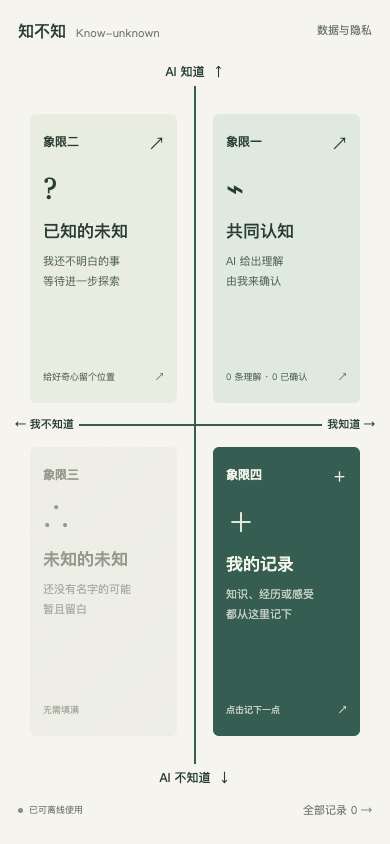
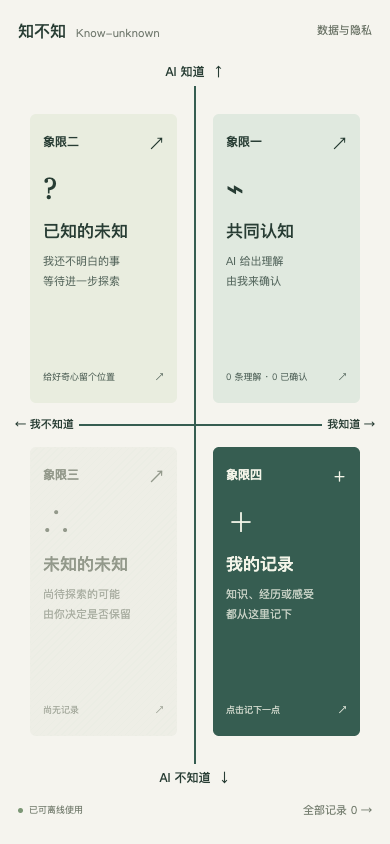
Use quadrant names consistently and open exploration view

Changed region(s): [[0.0923, 0.6161, 0.3385, 0.7393], [0.1231, 0.8318, 0.1846, 0.8626]]

diff --git a/src/App.tsx b/src/App.tsx
@@ -5,8 +5,8 @@ import { AIService, NoAIAdapter } from './ai';
 import { APP_VERSION, subscribeUpdates, getUpdateState, checkForUpdates, applyUpdate } from './pwa';
 const repository = new IndexedDBRepository();
 const ai = new AIService(repository, new NoAIAdapter());
-type Panel = 'all' | 'shared' | 'gaps' | 'settings' | 'write';
-const panelTitle: Record<Panel, string> = { all: '全部记录', shared: '共同认知', gaps: '已知的未知', settings: '数据与隐私', write: '记一笔' };
+type Panel = 'all' | 'shared' | 'gaps' | 'unexplored' | 'settings' | 'write';
+const panelTitle: Record<Panel, string> = { all: '全部记录', shared: '象限一 · 共同认知', gaps: '象限二 · 已知的未知', unexplored: '象限三 · 未知的未知', settings: '数据与隐私', write: '记一笔' };
 export default function App() {
   const title = '知不知';
   const update = useSyncExternalStore(subscribeUpdates, getUpdateState);
@@ -85,7 +85,7 @@ export default function App() {
     }, '文件处理完成。');
   }
   const records = archive?.records ?? [];
-  const groups = { all: records, shared: records.filter(r => quadrant(r) === 'shared'), gaps: records.filter(r => quadrant(r) === 'gaps') };
+  const groups = { all: records, shared: records.filter(r => quadrant(r) === 'shared'), gaps: records.filter(r => quadrant(r) === 'gaps'), unexplored: records.filter(r => r.quadrant === 'lower_left') };
   const question = archive && nextQuestion(records, archive.skippedQuestionIds);
   function recordView(record: CognitiveRecord) {
     return <article className="record" key={record.id}>
@@ -93,7 +93,7 @@ export default function App() {
       <p className="hint">{quadrantLabels[record.quadrant]} · {record.placement.source === 'user' ? '用户指定归类' : '旧记录推定，原录入入口未留存'}{record.quadrant !== record.placement.declaredQuadrant && <>（用户归类：{quadrantLabels[record.placement.declaredQuadrant]}）</>}</p><p className="original">{record.text}</p>
       {record.analysis ? <div className="analysis"><small>{'AI 的理解建议'}</small><p>{record.analysis.summary}</p><small>{record.analysis.provider} · {record.analysis.model} · {new Date(record.analysis.generatedAt).toLocaleString('zh-CN')}</small></div> : <p className="hint">仅已保存，AI 尚未提供理解。</p>}
       <div className="record-actions">
-        {record.status === 'pending' && <button disabled={busy} onClick={() => void run(() => repository.update(record.id, current => reclassifyRecord(current, record.kind === 'personal' ? 'known_unknown' : 'personal'), record.revision), '已按你的选择调整象限，原文保留。')}>{record.kind === 'personal' ? '移到左上' : '移到右下'}</button>}
+        {record.status === 'pending' && <button disabled={busy} onClick={() => void run(() => repository.update(record.id, current => reclassifyRecord(current, record.kind === 'personal' ? 'known_unknown' : 'personal'), record.revision), '已按你的选择调整象限，原文保留。')}>{record.kind === 'personal' ? '移到象限二' : '移到象限四'}</button>}
         {record.status === 'pending' && <button disabled={!ai.adapter.available || busy} title="首版未接入模型">等待接入模型</button>}
         {record.status === 'understood' && <button disabled={busy} onClick={() => void run(() => repository.update(record.id, confirmRecord, record.revision), '已确认这次理解。')}>确认这次理解</button>}
         {record.status !== 'pending' && <button disabled={busy} onClick={() => void run(() => repository.update(record.id, resetRecord, record.revision), '已退回待理解，旧建议已移除。')}>{record.status === 'confirmed' ? '撤回确认' : '理解有误'}</button>}
@@ -108,7 +108,7 @@ export default function App() {
       <section className="quadrants" aria-label={title}>
         <button className="quadrant gaps" onClick={() => setPanel('gaps')}><span className="quad-number"><strong>{quadrantNames.upper_left}</strong> <span>↗</span></span><span className="quad-icon">?</span><h2>已知的未知</h2><p>我还不明白的事<br/>等待进一步探索</p><span className="quad-foot">{groups.gaps.length ? `${groups.gaps.length} 条探索` : '给好奇心留个位置'} <span>↗</span></span></button>
         <button className="quadrant shared" onClick={() => setPanel('shared')}><span className="quad-number"><strong>{quadrantNames.upper_right}</strong> <span>↗</span></span><span className="quad-icon">⌁</span><h2>共同认知</h2><p>AI 给出理解<br/>由我来确认</p><span className="quad-foot">{groups.shared.length} 条理解 · {groups.shared.filter(r => r.status === 'confirmed').length} 已确认 <span>↗</span></span></button>
-        <div className="quadrant unknown" aria-label="未知的未知，不可编辑"><span className="quad-number"><strong>{quadrantNames.lower_left}</strong></span><span className="quad-icon">∴</span><h2>未知的未知</h2><p>还没有名字的可能<br/>暂且留白</p><span className="quad-foot">无需填满</span></div>
+        <button className="quadrant unknown" onClick={() => setPanel('unexplored')}><span className="quad-number"><strong>{quadrantNames.lower_left}</strong> <span>↗</span></span><span className="quad-icon">∴</span><h2>未知的未知</h2><p>尚待探索的可能<br/>由你决定是否保留</p><span className="quad-foot">{groups.unexplored.length ? `${groups.unexplored.length} 条记录` : '尚无记录'} <span>↗</span></span></button>
         <button className="quadrant inbox" disabled={!archive} onClick={() => write()}><span className="quad-number"><strong>{quadrantNames.lower_right}</strong> <span>＋</span></span><span className="quad-icon plus">＋</span><h2>我的记录</h2><p>知识、经历或感受<br/>都从这里记下</p><span className="quad-foot">点击记下一点 <span>↗</span></span></button>
       </section>
       <div className="vertical-label bottom">AI 不知道 <span>↓</span></div>
@@ -121,7 +121,7 @@ export default function App() {
     <dialog ref={dialog} onCancel={e => { e.preventDefault(); close(); }} onClose={() => setPanel(undefined)} aria-labelledby="panel-title">
       <div className="dialog-header"><div><p className="eyebrow">Know-unknown</p><h2 id="panel-title">{panel && panelTitle[panel]}</h2></div><button className="close" disabled={busy} onClick={close} aria-label="关闭">×</button></div>
       {panel === 'write' && <form onSubmit={save}><div className="kind-picker" role="group" aria-label="记录类型"><button type="button" aria-pressed={kind === 'personal'} onClick={() => setKind('personal')}>我知道</button><button type="button" aria-pressed={kind === 'known_unknown'} onClick={() => setKind('known_unknown')}>我还不知道</button></div><label htmlFor="note">{kind === 'personal' ? '记下一件你知道的事' : '记下一件你还不明白的事'}</label><textarea id="note" autoFocus value={text} maxLength={MAX_TEXT} disabled={busy} onChange={e => setText(e.target.value)} placeholder={kind === 'personal' ? '一点知识、一个想法、一次感受，都可以。' : '例如：我还不明白，为什么开会前总是紧张。'}/><div className="editor-bottom"><span>{text.length} / {MAX_TEXT}</span><button className="primary" disabled={busy || !text.trim()}>{busy ? '保存中…' : '保存到本机'}</button></div><p className="hint" aria-live="polite">保存到：{kind === 'known_unknown' ? quadrantLabels.upper_left : quadrantLabels.lower_right}。由你决定归类，保存不等于 AI 理解。</p></form>}
-      {(panel === 'all' || panel === 'shared' || panel === 'gaps') && <div><p className="panel-description">{panel === 'all' ? '所有已保存记录都在这里；调整象限后仍会保留，理解与确认状态分别标注。' : panel === 'shared' ? '这里的原文与理解建议只读。确认代表你认可这一次理解。' : '只展示你主动记录的未知与困惑，不替你判断。'}</p>{panel === 'all' && questionPrompt}{groups[panel].length ? [...groups[panel]].reverse().map(recordView) : <div className="empty"><span>○</span><h3>{panel === 'shared' ? '共同认知，慢慢形成' : panel === 'gaps' ? '好奇心还未落笔' : '这里还没有记录'}</h3><p>{panel === 'shared' ? '接入模型并核对理解后，记录会出现在这里。' : '从右下角记下一件小事就好。'}</p></div>}{panel !== 'shared' && <button className="primary full" onClick={() => write(undefined, panel === 'gaps' ? 'known_unknown' : 'personal', panel === 'gaps' ? 'upper_left' : 'record_list')}>记一笔</button>}</div>}
+      {(panel === 'all' || panel === 'shared' || panel === 'gaps' || panel === 'unexplored') && <div><p className="panel-description">{panel === 'all' ? '所有已保存记录都在这里；调整象限后仍会保留，理解与确认状态分别标注。' : panel === 'shared' ? '这里的原文与理解建议只读。确认代表你认可这一次理解，写错或不需要的条目可删除。' : panel === 'unexplored' ? '这里保留待探索的条目，你可以逐条查看或删除。' : '只展示你主动记录的未知与困惑，不替你判断。'}</p>{panel === 'all' && questionPrompt}{groups[panel].length ? [...groups[panel]].reverse().map(recordView) : <div className="empty"><span>○</span><h3>{panel === 'shared' ? '共同认知，慢慢形成' : panel === 'gaps' ? '好奇心还未落笔' : '这里还没有记录'}</h3><p>{panel === 'shared' ? '接入模型并核对理解后，记录会出现在这里。' : panel === 'unexplored' ? '有记录后，可在这里查看或删除。' : '从象限四记下一件小事就好。'}</p></div>}{(panel === 'all' || panel === 'gaps') && <button className="primary full" onClick={() => write(undefined, panel === 'gaps' ? 'known_unknown' : 'personal', panel === 'gaps' ? 'upper_left' : 'record_list')}>记一笔</button>}</div>}
       {panel === 'settings' && <div className="settings"><section><h3>应用版本 {APP_VERSION}</h3><p>数据格式 {archive?.schemaVersion ?? '…'} · 更新应用会保留本机已保存记录。</p><div className="record-actions"><button disabled={busy || update.checking || update.applying} onClick={() => void checkForUpdates()}>{update.checking ? '检查中…' : '检查更新'}</button>{update.available && <button disabled={busy || update.applying} onClick={updateApp}>{update.applying ? '更新中…' : '更新应用'}</button>}</div><p role="status">{update.message}</p></section><section><h3>你的记录，留在你的设备上</h3><p>首版没有账号、云同步或真实模型。资料保存在当前浏览器，未作应用级加密。不同浏览器不会自动共享。</p><p>清理站点、隐私浏览或设备空间不足可能导致资料丢失。建议定期导出；导出文件为明文，请妥善保存。</p></section><div className="data-actions"><button disabled={busy || !archive} onClick={() => void download()}>导出 JSON · {records.length} 条</button><label className="file-button">从 JSON 恢复<input type="file" accept=".json,application/json" disabled={busy || !archive} onChange={e => { const file = e.target.files?.[0]; e.target.value = ''; if (file) void restore(file); }}/></label><button disabled={busy} onClick={() => void run(async () => { if (!navigator.storage?.persist) throw new Error('当前浏览器不支持请求持久保存'); const granted = await navigator.storage.persist(); if (!granted) throw new Error('浏览器尚未授予持久保存，请继续定期导出'); }, '浏览器已允许持久保存，仍建议定期导出。')}>请求浏览器保留资料</button></div><section><h3>关于 AI</h3><p>当前不收集 API Key、不发送记录。未来支持自填模型 Key 或可选本地模型；只有你主动要求理解时，才发送选中的记录。</p></section><button className="danger text-button" disabled={busy || !archive} onClick={() => { if (window.confirm('清空全部记录与跳过的问题？此操作无法撤销，建议先导出。')) void run(() => repository.clear(), '本机个人资料已清空。'); }}>清空本机全部资料</button></div>}
       {error && <p role="alert" className="error">{error}</p>}
       {notice && <p role="status" className="notice">{notice}</p>}

diff --git a/src/domain.ts b/src/domain.ts
@@ -12,20 +12,20 @@ export const quadrantNames: Record<Quadrant, string> = {
   upper_right: '象限一', upper_left: '象限二', lower_left: '象限三', lower_right: '象限四',
 };
 export const quadrantLabels: Record<Quadrant, string> = {
-  upper_left: '象限二 · 左上 · 已知的未知', upper_right: '象限一 · 右上 · 共同认知',
-  lower_left: '象限三 · 左下 · 未知的未知', lower_right: '象限四 · 右下 · 我的记录',
+  upper_left: '象限二 · 已知的未知', upper_right: '象限一 · 共同认知',
+  lower_left: '象限三 · 未知的未知', lower_right: '象限四 · 我的记录',
 };
 export const cognitionContext = {
   axes: { horizontal: { left: '我不知道', right: '我知道' }, vertical: { top: 'AI 知道', bottom: 'AI 不知道' } },
   quadrants: {
-    upper_left: { number: 2, name: quadrantNames.upper_left, position: '左上', label: '已知的未知', userKnowledge: 'unknown', aiKnowledge: 'known' },
-    upper_right: { number: 1, name: quadrantNames.upper_right, position: '右上', label: '共同认知', userKnowledge: 'known', aiKnowledge: 'known' },
-    lower_left: { number: 3, name: quadrantNames.lower_left, position: '左下', label: '未知的未知', userKnowledge: 'unknown', aiKnowledge: 'unknown' },
-    lower_right: { number: 4, name: quadrantNames.lower_right, position: '右下', label: '我的记录', userKnowledge: 'known', aiKnowledge: 'unknown' },
+    upper_left: { number: 2, name: quadrantNames.upper_left, label: '已知的未知', userKnowledge: 'unknown', aiKnowledge: 'known' },
+    upper_right: { number: 1, name: quadrantNames.upper_right, label: '共同认知', userKnowledge: 'known', aiKnowledge: 'known' },
+    lower_left: { number: 3, name: quadrantNames.lower_left, label: '未知的未知', userKnowledge: 'unknown', aiKnowledge: 'unknown' },
+    lower_right: { number: 4, name: quadrantNames.lower_right, label: '我的记录', userKnowledge: 'known', aiKnowledge: 'unknown' },
   },
   meanings: {
     declaredQuadrant: '用户指定的基础象限；可能与文字语义不一致，不能根据内容静默重分类。',
-    quadrant: '导出时的展示象限。个人记录收到模型建议后可进入右上，原有归类和入口仍保留。',
+    quadrant: '导出时的展示象限。个人记录收到模型建议后可进入象限一，原有归类和入口仍保留。',
     source: 'user 表示用户指定；legacy_inferred 表示根据旧字段推定，无法证明原始录入入口。',
     entryPoint: '创建记录时的界面入口；unknown 表示未留存。与用户最终选择的象限分别记录。',
     knowledge: '坐标描述归类意图，不证明用户或模型客观上知道什么；原文是用户自述。',

diff --git a/src/pwa.ts b/src/pwa.ts
@@ -1,6 +1,6 @@
 import { registerSW } from 'virtual:pwa-register';
 
-export const APP_VERSION = '0.1.2';
+export const APP_VERSION = '0.1.3';
 type UpdateState = { available: boolean; checking: boolean; applying: boolean; message: string };
 let state: UpdateState = { available: false, checking: false, applying: false, message: '' };
 const listeners = new Set<() => void>();

diff --git a/docs/architecture.md b/docs/architecture.md
@@ -6,15 +6,15 @@
 
 采用用户确认的「方案 B 动态认知状态底层逻辑 + 方案 A 极简交互」。打开即四象限；横轴左我不知道、右我知道；纵轴上 AI 知道、下 AI 不知道。只讨论已进入个人记录范围的信息，不展示模型的整个知识库。
 
-目标：3 次操作内离线记录；严格区分落盘、模型理解建议与用户确认；随时导出、恢复和删除个人数据。右下为快速记录入口；左上列表中的「记一笔」默认继承左上归类。编辑器可选择「我知道 / 我还不知道」；知识、感受与经历统一输入，后者明确声明已知未知。右上、左上内容只读，确认/退回是状态动作，不允许静默修改原文。左下不生成虚假的未知条目。问题可跳过，回答使用同一个记录入口。
+目标：3 次操作内离线记录；严格区分落盘、模型理解建议与用户确认；随时导出、恢复和删除个人数据。象限四为快速记录入口；象限二列表中的「记一笔」默认继承象限二归类。编辑器可选择「我知道 / 我还不知道」；知识、感受与经历统一输入，后者明确声明已知未知。象限一、象限二内容只读，确认/退回是状态动作，不允许静默修改原文。象限三开放浏览入口，不生成虚假的未知条目；未来写回后也允许逐条删除。问题可跳过，回答使用同一个记录入口。
 
 2026-10-19 首页交互调整（用户明确要求）：横纵轴连续实线，纵轴长于横轴，按手机竖屏布局；去掉顶部引导文案及底部口号。问题提示移入记录列表，首页只保留四象限与必要操作。
 
 默认假设：
 
 1. 第一版为手机优先 PWA，可添加到主屏幕；不承诺 App Store 原生包。使用简体中文。
-2. **刚保存的个人记录留在右下的待理解队列**；AI 产生可复核摘要后进入右上（待确认），用户确认后才叫共同认知。这里对「保存后进入共同认知流程」作语义保守解释，避免坐标图错误宣称 AI 已知。
-3. 用户主动声明的「我还不会」直接显示左上，但没有模型时知识栏明确为空，不表示 AI 已知答案；左上标题增加状态解释。不会推断用户不知道什么。
+2. **刚保存的个人记录留在象限四的待理解队列**；AI 产生可复核摘要后进入象限一（待确认），用户确认后才叫共同认知。这里对「保存后进入共同认知流程」作语义保守解释，避免坐标图错误宣称 AI 已知。
+3. 用户主动声明的「我还不会」直接显示象限二，但没有模型时知识栏明确为空，不表示 AI 已知答案；象限二标题增加状态解释。不会推断用户不知道什么。
 4. 无模型首版仅提供标明来源的、本地规则提示，不伪装成 AI 观察。已读不代表已理解，用户确认也不是客观真理。
 5. 不预装示例私人记忆。一个浏览器来源是一份本地资料；主页面只有一个四象限，不区分知识与感受，旧 URL 的 category 参数自动移除，无路由库、账户、登录。
 
@@ -49,9 +49,9 @@ stateDiagram-v2
 - pending：已保存，AI 尚未给出理解。无模型、取消、超时、网络失败均保留该状态。
 - understood：模型已返回理解建议，**不表示客观上真正理解**；UI 写「待确认」。只有有 provider、model、生成时间与非空摘要的结果才允许转入。
 - confirmed：用户确认了该版本的摘要，UI 写「已确认」；撤回会删除旧建议，回 pending。
-- 我知道（personal）：pending → 右下；understood/confirmed → 右上。
-- 我不知道（known_unknown）：用户显式声明 → 左上；无模型显示「知识待补充」。模型结果只是知识建议，不自动表示用户已学会；学会/迁移到右上延后。
-- 左下为空的概念区域。AI 不能凭空枚举双方未知。
+- 我知道（personal）：pending → 象限四；understood/confirmed → 象限一。
+- 我不知道（known_unknown）：用户显式声明 → 象限二；无模型显示「知识待补充」。模型结果只是知识建议，不自动表示用户已学会；学会/迁移到象限一延后。
+- 象限三用于待探索条目；当前记录格式与 NoAIAdapter 不生成这种条目。未来写回需定义有效格式和来源，不能宣称已经枚举双方未知。
 - 处理期间是短暂 UI busy，不保存 processing；刷新后不出现卡死的 processing。
 - 保存状态与认知状态正交：UI 只在 IndexedDB transaction complete 后显示保存成功。拒绝空输入，最多 4000 字。失败保留输入，可重试。
 
@@ -101,7 +101,7 @@ src/ai.ts                  NoAIAdapter / AIService
 src/App.tsx + styles.css    四象限、记录、只读浏览、数据设置
 ```
 
-验收优先：无模型不会进入 understood；确认必须有摘要证据；保存失败不丢输入；刷新仍在；导出恢复不丢数据；并发新增不覆盖；离线冷重开；360px 宽无横向溢出；左上右上无编辑器；跳过问题不再提示。自动化证据写入 docs/verification.md，真机手动验收另列。
+验收优先：无模型不会进入 understood；确认必须有摘要证据；保存失败不丢输入；刷新仍在；导出恢复不丢数据；并发新增不覆盖；离线冷重开；360px 宽无横向溢出；象限二与象限一的记录原文不可编辑；跳过问题不再提示。自动化证据写入 docs/verification.md，真机手动验收另列。
 
 
 ## ADR-009 · 统一四象限（替代双导航设计）
@@ -141,10 +141,10 @@ src/App.tsx + styles.css    四象限、记录、只读浏览、数据设置
 ## ADR-012 · 用户象限意图与 AI 阅读上下文
 
 - 用户指定象限是独立事实。内容即使与象限定义不完全相符，也保留用户选择，AI 可以提出疑问但不能按语义静默改类。
-- quadrant 表示当前展示位置；placement.declaredQuadrant 表示用户指定的基础象限；placement.entryPoint 表示创建记录时的入口。三者不能互相冒充。例如从左上开始、手动选择「我知道」，入口仍是 upper_left，归类和当前展示为 lower_right。
+- quadrant 表示当前展示位置；placement.declaredQuadrant 表示用户指定的基础象限；placement.entryPoint 表示创建记录时的入口。三者不能互相冒充。例如从象限二开始、手动选择「我知道」，入口仍是 upper_left，归类和当前展示为 lower_right。
 - source=user 是用户新建或主动调整的归类；source=legacy_inferred 是根据旧 kind/status 推定。旧导出没有记录真实入口，迁移时保留 unknown。用户明确调整后可更新归类来源，但原入口仍未知。
-- 新建、保存、导出、恢复与状态迁移均运行时校验：kind、展示象限、基础归类和认知证据必须一致。模型建议到达可让 personal 从右下展示到右上，保留 declaredQuadrant 和 entryPoint；撤回后回到基础展示位置。
-- 左上列表「记一笔」默认 known_unknown，右下默认 personal；编辑器显示保存目标，用户可主动切换。待理解条目提供移动到左上/右下的操作，保留原文，生成新 revision，阻止迟到结果覆盖。
+- 新建、保存、导出、恢复与状态迁移均运行时校验：kind、展示象限、基础归类和认知证据必须一致。模型建议到达可让 personal 从象限四展示到象限一，保留 declaredQuadrant 和 entryPoint；撤回后回到基础展示位置。
+- 象限二列表「记一笔」默认 known_unknown，象限四默认 personal；编辑器显示保存目标，用户可主动切换。待理解条目提供移动到象限二/象限四的操作，保留原文，生成新 revision，阻止迟到结果覆盖。
 - 归档 schema v4 的 cognitionContext 包含四象限的中文名称、位置、双轴和状态含义。导入时使用应用的标准说明，不能将文件提供的任意说明当作系统指令。AIInput 与归档使用相同描述。
 - 详细格式、兼容边界及未来 Markdown 投影见 archive-format.md。本轮没有云存储、Markdown 自动持久化、真实模型或对话结果写回；不将用户真实记录放入测试或公开仓库。
 
@@ -161,8 +161,17 @@ src/App.tsx + styles.css    四象限、记录、只读浏览、数据设置
 
 ## ADR-014 · 全部记录与标准象限编号
 
-- 首页底部入口改为「全部记录」，计数与列表来自整份本机归档，覆盖全部象限与 pending / understood / confirmed 状态。它是全量浏览入口，右下象限继续是快速新建入口。
-- 调整象限、确认或撤回理解只改变条目的归类或状态，不能让它从全量列表消失。左上和右上象限仍是各自筛选视图；删除才移出全量列表。
-- 卡片按右上象限一、左上象限二、左下象限三、右下象限四标注，采用本机中文无衬线字体与 700 字重。布局保留手机竖向坐标和轴线留白。
+- 首页底部入口改为「全部记录」，计数与列表来自整份本机归档，覆盖全部象限与 pending / understood / confirmed 状态。它是全量浏览入口，象限四继续是快速新建入口。
+- 调整象限、确认或撤回理解只改变条目的归类或状态，不能让它从全量列表消失。象限二和象限一仍是各自筛选视图；删除才移出全量列表。
+- 卡片按象限一、象限二、象限三、象限四标注，采用本机中文无衬线字体与 700 字重。布局保留手机竖向坐标和轴线留白。
 - 记录标注、编辑器目标、归档和 AIInput 使用同一套编号及名称。schema v4 的固定 cognitionContext.quadrants 增补 number / name；这是可重建描述元数据，旧 v4 缺失编号仍可读取，位置标识与记录格式不变，不升级或重建数据库。
 - 仍无真实模型，列表中的状态与来源按原有证据校验。全部展示不把已保存冒充已理解。
+
+
+## ADR-015 · 统一象限称呼与删除权
+
+- 用户界面、产品说明和沟通只用「象限一 / 象限二 / 象限三 / 象限四」。标题、记录标注、移动按钮、空状态与 AI 描述一致。内部 upper_right / upper_left / lower_left / lower_right 标识为兼容旧归档保留，不展示给用户。
+- 象限三不再是无法点击的永久空白区，现可打开只读列表，沿用公共记录组件和删除操作。象限一、象限二与全部记录中的条目，无论待理解、待确认或已确认，都允许用户逐条删除；确认/撤回与删除是不同动作。
+- 每次删除需明确确认，取消不变；仅在 IndexedDB 事务完成后显示删除成功并广播更新。删除不触发模型请求，也不把模型建议改成用户事实。
+- 本轮只开放象限三列表，未扩展记录格式：v4 仍只接受 personal / known_unknown 的既有投影，不接受实际属于象限三的内容。不得用绕过校验或伪造 understood 来填充象限三。
+- 下一步写回协议必须支持象限一与象限三有内容、可查看与删除。象限三条目应明确为探索线索而非已知事实，需单独定义格式版本、来源和状态；写回前预览并取得用户确认。删除后的迟到结果不能恢复记录，导入备份恢复仍遵循现有替换确认。这些属于后续实现，本轮无写回接口。

diff --git a/docs/archive-format.md b/docs/archive-format.md
@@ -4,7 +4,7 @@
 
 ## 文件与记录
 
-文件包含 schemaVersion、exportedAt、cognitionContext、records、skippedQuestionIds。cognitionContext 是应用生成的固定描述，包含横纵轴、四个象限的位置和名称、字段与认知状态的含义。各象限带 number / name：右上 1 / 象限一、左上 2 / 象限二、左下 3 / 象限三、右下 4 / 象限四。编号是固定描述元数据，早期 v4 文件缺少这些描述也可导入。
+文件包含 schemaVersion、exportedAt、cognitionContext、records、skippedQuestionIds。cognitionContext 是应用生成的固定描述，包含横纵轴、四个象限的位置和名称、字段与认知状态的含义。各象限带 number / name：1 / 象限一、2 / 象限二、3 / 象限三、4 / 象限四。编号是固定描述元数据，早期 v4 文件缺少这些描述也可导入。旧 position 描述不再生成，恢复时仍重建标准上下文，不影响记录原文与状态。
 
 下面是 records 中一条虚构记录的完整示例：
 
@@ -28,23 +28,23 @@
 
 | 字段 | 含义 |
 |---|---|
-| quadrant | 当前展示位置：upper_right 象限一（右上）、upper_left 象限二（左上）、lower_left 象限三（左下）、lower_right 象限四（右下） |
+| quadrant | 当前展示位置：upper_right 象限一、upper_left 象限二、lower_left 象限三、lower_right 象限四 |
 | placement.declaredQuadrant | 用户指定的基础归类，目前可选 upper_left / lower_right |
 | placement.source | user：用户指定或主动调整；legacy_inferred：旧字段推定 |
 | placement.entryPoint | 创建时入口：upper_left、lower_right、record_list（记录列表）、question_prompt（问题提示）、unknown（未留存） |
-| kind | known_unknown 对应左上基础归类，personal 对应右下基础归类；与声明象限一致性校验 |
+| kind | known_unknown 对应象限二基础归类，personal 对应象限四基础归类；与声明象限一致性校验 |
 | status | pending 已保存；understood 模型建议待核对；confirmed 用户确认本次建议 |
 | analysis | 模型建议及 provider/model/generatedAt；不覆盖 text，不代表已验证的客观事实 |
 
-quadrant 与 placement 分开，避免记录收到模型结果后展示到右上，却丢失用户最初的归类或入口。入口也不等于最终选择：从左上开始输入后主动选「我知道」，应保留 entryPoint=upper_left、declaredQuadrant=lower_right。
+quadrant 与 placement 分开，避免记录收到模型结果后展示到象限一，却丢失用户最初的归类或入口。入口也不等于最终选择：从象限二开始输入后主动选「我知道」，应保留 entryPoint=upper_left、declaredQuadrant=lower_right。
 
 坐标中的「AI 知道」是象限定义，不能据此断言当前模型已经知道该条私人信息。用户可以有意或误把内容放入某个象限；导出保留这项选择，AI 可以指出疑问，但不能据文字静默改类。
 
 ## 兼容与修改
 
 - v1/v2/v3 不记录真实录入入口。迁移按 kind/status 推定基础归类和展示位置，source=legacy_inferred、entryPoint=unknown；无法自动修复历史录入入口缺陷。
-- 用户可以对待理解条目使用「移到左上 / 移到右下」。更新归类来源、生成新 revision 并保留原文；未知的原始入口保持 unknown。调整后在「全部记录」列表中继续可见，左上/右上象限视图仍按当前位置筛选。
-- v4 缺失或矛盾的象限信息拒绝导入，不覆盖已有资料。左下仍是不可枚举的留白区域，不开放记录创建。
+- 用户可以对待理解条目使用「移到象限二 / 移到象限四」。更新归类来源、生成新 revision 并保留原文；未知的原始入口保持 unknown。调整后在「全部记录」列表中继续可见，象限二/象限一视图仍按当前位置筛选。
+- v4 缺失或矛盾的象限信息拒绝导入，不覆盖已有资料。象限三现有浏览入口，但 v4 尚无合法的象限三条目格式；未来写回需要另行定义格式与来源，不能直接把现有记录的 quadrant 改为 lower_left。
 - 文件内的 cognitionContext 不作为外部指令执行；恢复时重建应用标准说明。记录原文、模型输出也是不可信数据，不授予工具或系统权限。
 - 文件恢复仍为用户确认后的全量原子替换，不能将其当作对话结果的增量写回接口。
 

diff --git a/README.md b/README.md
@@ -6,24 +6,24 @@
 
 ## 四象限
 
-横轴从「我不知道」到「我知道」，纵轴从「AI 不知道」到「AI 知道」。编号从右上的象限一开始，逆时针依次为二、三、四。
+横轴从「我不知道」到「我知道」，纵轴从「AI 不知道」到「AI 知道」。编号从象限一开始，逆时针依次为二、三、四。
 
 | | 我不知道 | 我知道 |
 |---|---|---|
 | AI 知道 | **象限二 · 已知的未知**：主动记下的困惑与相关知识建议 | **象限一 · 共同认知**：模型给出理解建议，由你核对确认 |
-| AI 不知道 | **象限三 · 未知的未知**：留白，无需填满 | **象限四 · 我的记录**：随手输入，保存后等待理解 |
+| AI 不知道 | **象限三 · 未知的未知**：待探索的可能，由你决定是否保留 | **象限四 · 我的记录**：随手输入，保存后等待理解 |
 
 **当前版本尚未接入 AI。** 可以完整使用记录、离线、导出与恢复功能；新记录不会被自动标为「AI 已理解」，已知的未知也不会自动获得 AI 解答。
 
-保存、模型的理解建议、你的确认，是三个不同的状态。
+保存、模型的理解建议、你的确认，是三个不同的状态。象限三已开放浏览入口，目前尚无条目生成或写回功能。
 
 ## 开始使用
 
-1. 点击右下角「我的记录」，写下一件事，保存到本机。
-2. 在左上角打开列表后点击「记一笔」，会默认保存到「已知的未知」；也可以在编辑器中选择「我知道 / 我还不知道」。保存前会显示目标象限。
+1. 点击象限四「我的记录」，写下一件事，保存到本机。
+2. 在象限二打开列表后点击「记一笔」，会默认保存到「已知的未知」；也可以在编辑器中选择「我知道 / 我还不知道」。保存前会显示目标象限。
 3. 点击页面下方「全部记录」查看所有已保存的记录，包含待理解、待探索、待确认和已确认状态。
-4. 待理解的记录可用「移到左上 / 移到右下」调整归类，原文保留，仍留在「全部记录」列表。
-5. 在「数据与隐私」中导出 JSON 备份，也可以从备份恢复或删除记录。恢复会替换当前设备中的全部资料。
+4. 待理解的记录可用「移到象限二 / 移到象限四」调整归类，原文保留，仍留在「全部记录」列表。
+5. 在「数据与隐私」中导出 JSON 备份，也可以从备份恢复。每条已保存记录都可手动删除，包括已有理解建议或已确认的记录；取消删除会保留条目。恢复会替换当前设备中的全部资料。
 
 导出文件包含坐标说明、每条记录的展示象限、用户归类和录入来源，便于交给 AI 阅读。归类由你决定，不会根据文字内容自动纠正。旧记录无法还原的入口会明确标为未知，详见 [归档格式](docs/archive-format.md)。
 

diff --git a/docs/next-steps.md b/docs/next-steps.md
@@ -11,7 +11,7 @@
 - [x] NoAIAdapter、AIService 与可替换接口。
 - [x] 规则提示的真实来源、跳过和回答持久化。
 - [x] README、基础测试、浏览器场景与验证记录。
-- [ ] 用户验收默认假设：刚保存保留右下，只有 AI 建议进入右上；无模型左上的「知识待补充」标记。
+- [ ] 用户验收默认假设：刚保存保留象限四，只有 AI 建议进入象限一；无模型象限二的「知识待补充」标记。
 
 ## 本轮补充：统一入口与布局修复
 
@@ -60,7 +60,7 @@ M2 完成之前不得在 UI 宣称 AI 已观察用户或已掌握知识。
 
 ## 明确象限与来源
 
-- [x] 左上「记一笔」继承左上归类，保存前显示目标象限。
+- [x] 象限二「记一笔」继承象限二归类，保存前显示目标象限。
 - [x] schema v4 导出包含坐标语义、当前展示象限、用户归类与录入来源；AI adapter 输入使用同一上下文。
 - [x] 旧归档/旧数据库保留原文与理解证据，入口未知时不伪造；待理解记录可由用户主动调整象限。
 - [ ] iPhone 真机更新后，调整旧条目并重新导出，核对象限和来源。
@@ -70,5 +70,13 @@ M2 完成之前不得在 UI 宣称 AI 已观察用户或已掌握知识。
 ## 全量记录与象限编号
 
 - [x] 「全部记录」展示所有已保存条目，调整象限或认知状态后继续可见。
-- [x] 右上象限一开始，逆时针编号，中文黑体加粗标注；JSON / AIInput 说明同步。
+- [x] 象限一开始，逆时针编号，中文黑体加粗标注；JSON / AIInput 说明同步。
 - [ ] iPhone 更新至 0.1.2 后验收同一列表内左右移动、计数与字号。
+
+
+## 象限称呼与用户删除
+
+- [x] 应用内只用象限一、二、三、四，移动动作、列表标题和保存目标一致。
+- [x] 象限三可打开列表；所有现有条目沿用逐条删除与取消确认保护。
+- [ ] 写回协议定义象限三条目类型/来源/状态及格式版本，支持象限一与象限三有内容，不伪造已理解。
+- [ ] 写回时预览并确认，删除/改类后迟到的结果不得复活或覆盖；当前仍无增量写回接口。

diff --git a/docs/verification.md b/docs/verification.md
@@ -166,3 +166,14 @@ npm run test:e2e
 
 - 应用提交 e63b2ac 已推送，[GitHub Actions 39221414858](https://github.com/ZHERLOCK0213/Know-unknown/actions/runs/39221414858) 终态 success：build 19 秒、deploy 18 秒。
 - 正式站独立 Chrome 390×844 验收通过：HTTP 200、版本 0.1.2、四个编号及 700 字重正确；虚构记录从右下创建，在「全部记录」移到左上后仍显示于原列表，计数不变。导出保存 upper_left 与原入口 lower_right，固定编号存在；断网关闭页面后重开仍可在全量列表读取，页面错误 0。测试资料仅在隔离浏览器本地，关闭后移除。iPhone 真机仍待用户验收。
+
+
+## 统一象限称呼、象限三浏览与删除
+
+日期：2026-10-19。应用版本：0.1.3。
+
+- 界面标题、移动按钮、记录标注、保存目标及空状态统一使用象限一、二、三、四；导出上下文说明同样采用象限名称，移除旧 position 文本描述。内部兼容标识、记录结构、数据库名与状态校验保持。
+- 象限三从禁用区改为可打开的只读列表，当前没有生成或写回内容；未绕过 v4 校验填入条目。公共记录组件保留删除入口，实际象限三内容格式与写回协议仍待设计，不声称已完成这部分存储或真实 AI 写回。
+- npm test：2 文件 24 项通过；APP_BASE_PATH=/Know-unknown/ npm run build：类型检查、生产构建与 PWA 预缓存通过（约 263 KiB）。
+- APP_BASE_PATH=/Know-unknown/ npm run test:e2e：10 项通过（11.2 秒）。新增象限三打开与无编辑器、UI 无旧位置叫法、取消删除保留条目、象限一待确认/已确认条目删除、象限二与全部列表中的象限四条目删除；离线重开与导出确认删除持久生效。原有升级、移动后不消失、旧格式兼容与几何验收仍通过。
+- 理解证据只来自明确的 test/fake 夹具，不代表真实模型联通。手机截图已目视检查，象限三入口与坐标标注不重叠；iPhone 真机验收待用户确认。没有新增网络传输、账号或云服务。
